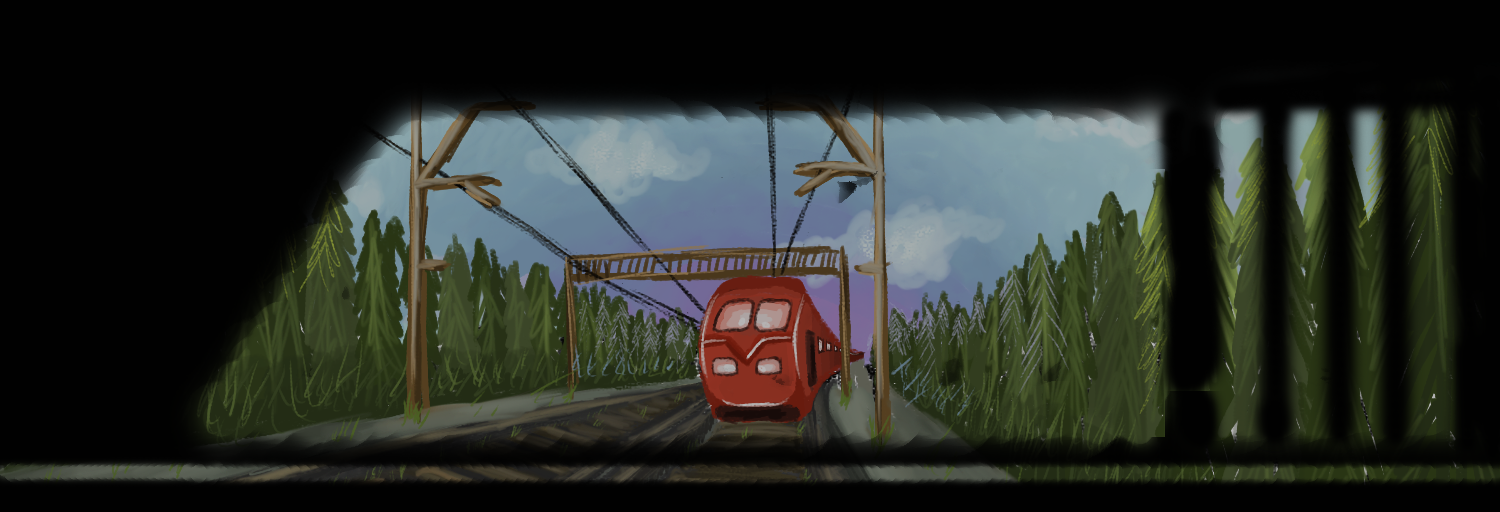
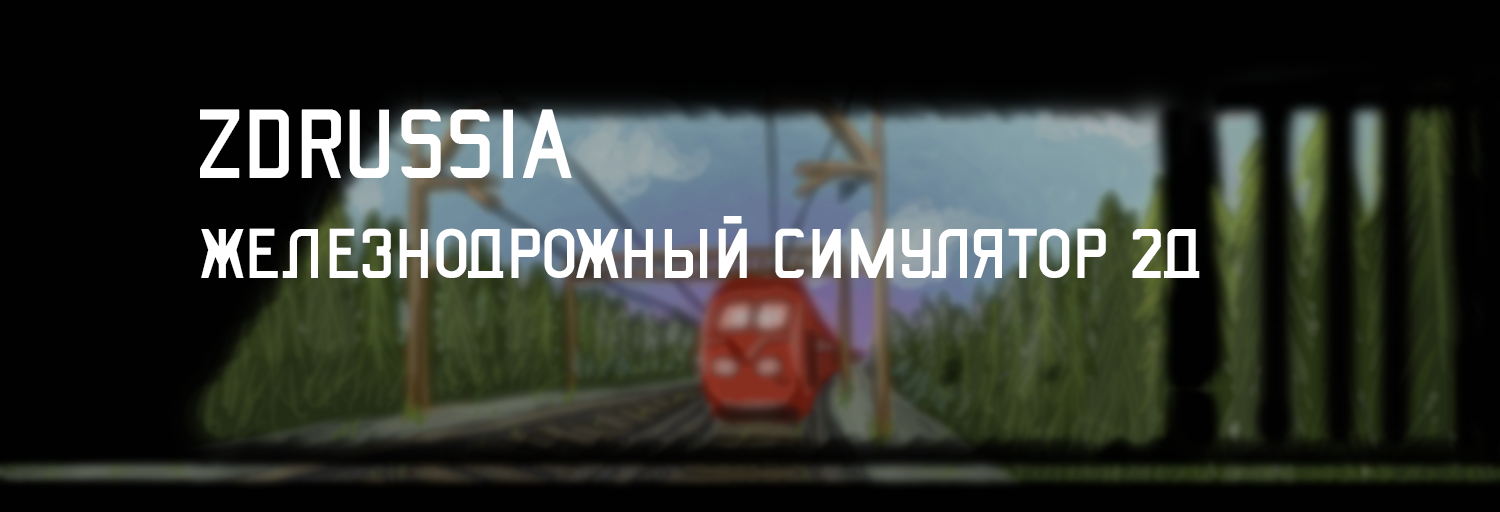
Add files via upload

diff --git a/index.html b/index.html
@@ -8,39 +8,70 @@
 	<link rel="stylesheet" type="text/css" href="https://necolas.github.io/normalize.css/8.0.1/normalize.css">
 </head>
 <body>
-	<div class="main">
-		<div class="container">
-			<div class="upper">
-			  <h1 style="font-size: 7em;">ZDRussia</h1>
-			  <p style="font-size: 4.9em;">Современный Железнодорожный Cимулятор 2D</p>
-			</div>
-		</div>
-		<div class="container buy">
-		  <button class="mainbtn"><a href="#">КУПИТЬ НА ANDROID & ПК</a></button>
-		  <button class="mainbtn"><a href="#"> ПОДВИЖНОЙ СОСТАВ</a></button>
-		  <button class="mainbtn"><a href="#mainblok">ПОДРОБНЕЕ ➤</a></button>
-		</div>
-		<div id="mainblok">
-		  <div class="container info">
-          <div class="info-colomn">
-            <li id="li1">Купи 1 раз - играй везде</li>
-            <li id="li2">Уникальная авторская графика</li>
-            <li id="li3">Проработанный подвижной состав</li>
-            <li id="li4">Уникальный маршрут - Киевское направление МЖД</li>
-            <li id="li5">Режим обучения</li>
-            <li id="li6">Полное погружение в работу машинстом</li>
-            <li id="li7">Сюжет?</li>
-          </div>
-          <div class="info-colomn" id="info-colomn-right">
-            <div id="snipet"></div>
-            <!--<iframe id="video" width="500" height="300" src="https://www.youtube.com/embed/V1-f4iVH8fw" title="ЭП1М Прибытие ст. Тимашевская / Остановка со 120 км / ч" frameborder="0" allow="accelerometer; autoplay; clipboard-write; encrypted-media; gyroscope; picture-in-picture; web-share" allowfullscreen></iframe>-->
-          </div>
-		</div>
-		</div>
-	</div>
-	<footer>
-	  
-	</footer>
-	<script src="index.js"></script>
+  <div class="container">
+    <header>
+      <div class="col-2-3">
+        <img id="game_logo" src="./media/diarama-logo.png" alt="логотип игры">
+        <h1>ZDRussia</h1>
+      </div>
+    </header>
+    <div class="upper">
+      <img class="bkg_img" src="./media/game_load.png" alt="обложка игры">
+    </div>
+    <div class="buy">
+      <button class="mainbtn"><a href="#">КУПИТЬ НА ANDROID & ПК</a></button>
+      <button class="mainbtn"><a href="#"> ПОДВИЖНОЙ СОСТАВ</a></button>
+      <button class="mainbtn"><a href="#mainblock">ПОДРОБНЕЕ ➤</a></button>
+    </div>
+    <div id="mainblock">
+      <div id="snipets">
+        <details>
+          <summary>Купи 1 раз - играй везде</summary>
+          После покупки игры вы получаете возможность играть, как на Android-устройствах, так и на Windows и Linux. Ваш прогресс сохраняется в облаке.
+        </details>
+        <details>
+          <summary>Уникальная авторская графика</summary>
+          Давай дальше
+        </details>
+        <details>
+          <summary>Нештатные ситуации</summary>
+          Еще чуть чуть
+        </details>
+        <details>
+          <summary>Проработанный подвижной состав</summary>
+          Еще немножка
+        </details>
+        <details>
+          <summary>Уникальный маршрут - Киевское направление МЖД</summary>
+          Просто потерпи
+        </details>
+        <details>
+          <summary>Режим обучения</summary>
+          СЛЕДУЮЩЕЕЕ!!!
+        </details>
+        <details>
+          <summary>Полное погружение в работу машинстом</summary>
+          НЕТ ОБМАНУЛ теперь точно следующее
+        </details>
+        <details>
+          <summary>Сюжет?</summary>
+          Нет, не сюжет, реальная жизнь! Устал подчиняться начальству на работе? Подчиняйся начальству в игре. Вы начинаете игру молодым помощником машиниста в одном Российском депо, заканчиваете игру, а в прочем не важно ...
+        </details>
+      </div>
+      <div id="video">
+        <iframe width="500" height="300" src="https://www.youtube.com/embed/V1-f4iVH8fw" title="ЭП1М Прибытие ст. Тимашевская / Остановка со 120 км / ч" frameborder="0" allow="accelerometer; autoplay; clipboard-write; encrypted-media; gyroscope; picture-in-picture; web-share" allowfullscreen></iframe>
+      </div>
+      <div id="route_msk">
+        <h1>Киевское направление V1.0</h1>
+        <div class="scheme">
+          <img src="./media/msk-route.png" alt="маршрут">
+          <!--<div id="names">
+            <p>Киевский вокзал</p>
+            <p>Поклонная</p>
+          </div>-->
+        </div>
+      </div>
+    </div>
+  </div>
 </body>
 </html>

diff --git a/main.css b/main.css
@@ -1,23 +1,7 @@
+/*NEW CODE*/
 @font-face {
 	font-family: "RailwayCargo"; 
 	src: url("./fonts/RailwayCargoRus_2022.ttf"); 
-}
-body{
-  background: url("./media/game_load.png") no-repeat;
-  backdrop-filter: blur(8px);
-  -moz-background-size: 100%;
-  -webkit-background-size: 100%;
-  -o-background-size: 100%;
-  background-size: 100%;
-  font-family: "RailwayCargo";
-  overflow-x: hidden; 
-}
-footer{
-  background-color: #1F2D3B;
-}
-div{
-  padding:0;
-  margin:0;
 }
 .col-1-2 {
   width: 50%;  
@@ -31,31 +15,76 @@ div{
 .col-2-3 {
   width: 66.6666666667%;
 }
-.upper{
+.col-2-4 {
+  width: 75%;
+}
+body{
+  font-family: "RailwayCargo";
+  overflow-x: hidden;
+  background-color: #1F2D3B;
+}
+header{
+  background-color: black;
+  padding-left: 12%;
+  padding-right: 12%;
   color: white;
-  margin-left: 15%;
+  margin-left: auto;
+  margin-right: auto;
+  display: block;
+  text-align: left;
+  justify-content: left;
+  vertical-align: middle;
+  padding-bottom: 1%;
+  border-bottom: 2px dashed #1F2D3B;
+}
+header div, header h1{
+  display: inline-block;
+}
+header h1{
+  font-size: calc(20px + 1vw);
+  margin-left: 1%;
+}
+#game_logo{
+  width: 15%;
+  vertical-align: middle;
+}
+.container{
+  margin: 0 auto;
+  width: 100%;
+}
+.bkg_img{
+  width: 100%;
+  top: 0;
+  left: 0;
+  backdrop-filter: blur(8px);
+}
+.upper h1{
+  position: absolute;
+  top: 0;
+  left: 0;
+  right: 0;
+  bottom: 0;
+  margin-top: calc(90px + 1vw);;
+  z-index: 9;
 }
 .buy{
-  margin-top: -30px;
   background-color: #1F2D3B;
   width: auto;
-  padding-left: 15%;
-  padding-right: 15%;
-  padding-top: 6%;
-}
-.buy a{
-  text-decoration: none;
-  color: inherit;
+  padding-left: 12%;
+  padding-right: 12%;
+  padding-top: 1%;
 }
 .mainbtn{
   text-decoration: none;
-  padding-bottom: 15px;
-  padding-top: 15px;
-  padding-left: 20px;
-  padding-right: 20px;
+  padding-bottom: 2%;
+  padding-top: 2%;
+  padding-left: 2%;
+  padding-right: 2%;
+  border: black 1px solid;
   border-radius: 5px;
-  font-size: 1.5em;
+  font-size: calc(7px + 1vw);
   background-color: white;
+  margin: 1%;
 }
 .mainbtn:hover{
   cursor: pointer;
@@ -63,43 +92,51 @@ div{
   border: white 1px solid;
   background: transparent;
 }
-.info{
-  background-color: #1F2D3B;
-  width: auto;
-  height: auto;
-  padding-left: 15%;
-  padding-top: 6%;
-  color: white;
-  white-space: nowrap;
+.buy a{
+  text-decoration: none;
+  -webkit-text-decoration: none;
+  color: inherit;
 }
-.info-colomn{
-  white-space: normal;	
-  display: inline-block;
-  width: 48%;
+#mainblock{
+  padding-top: 1%;
+  padding-left: 12%;
+  padding-right: 12%;
+  color: white;
   vertical-align: top;
 }
-.info .info-colomn:first-child {
-  margin-right: 4%;
+#mainblock #snipets, #mainblock #video{
+  display: inline-block;
 }
-#info-colomn-right{
-  max-width: 500px;
+#snipets{
+  width: 51%;
 }
-.info li {
-  list-style-type: none;
-  cursor: pointer;
-  font-size: 1.2em;
-  margin-top: 1%;
-  margin-bottom: 5%;
-
+#video{
+  position: absolute;
 }
-.info li:before {
-  content: "◥ ";
+details > summary {
+    list-style-type: "◢";
 }
-.info li:hover{
-  font-size: 2em;
+details[open] > summary {
+    list-style-type: "◤";
 }
-#snipet{
+details{
+  font-size: calc(7px + 1vw);
+  margin: 2%;
   font-family: monospace;
-  font-size: 1.5em;
-  height: 100px;
+}
+details summary{
+  font-size: calc(7px + 1vw);
+  font-family: "RailwayCargo";
+}
+#route_msk #scheme, #route_msk #names{
+  display: inline-block;
+}
+#route_msk img{
+  height: 3%;
+  width: 3%;
+}
+#route_msk #names{
+  vertical-align: top;
+  font-size: calc(16px + 1vw);
+  padding-bottom: 5%;
 }
